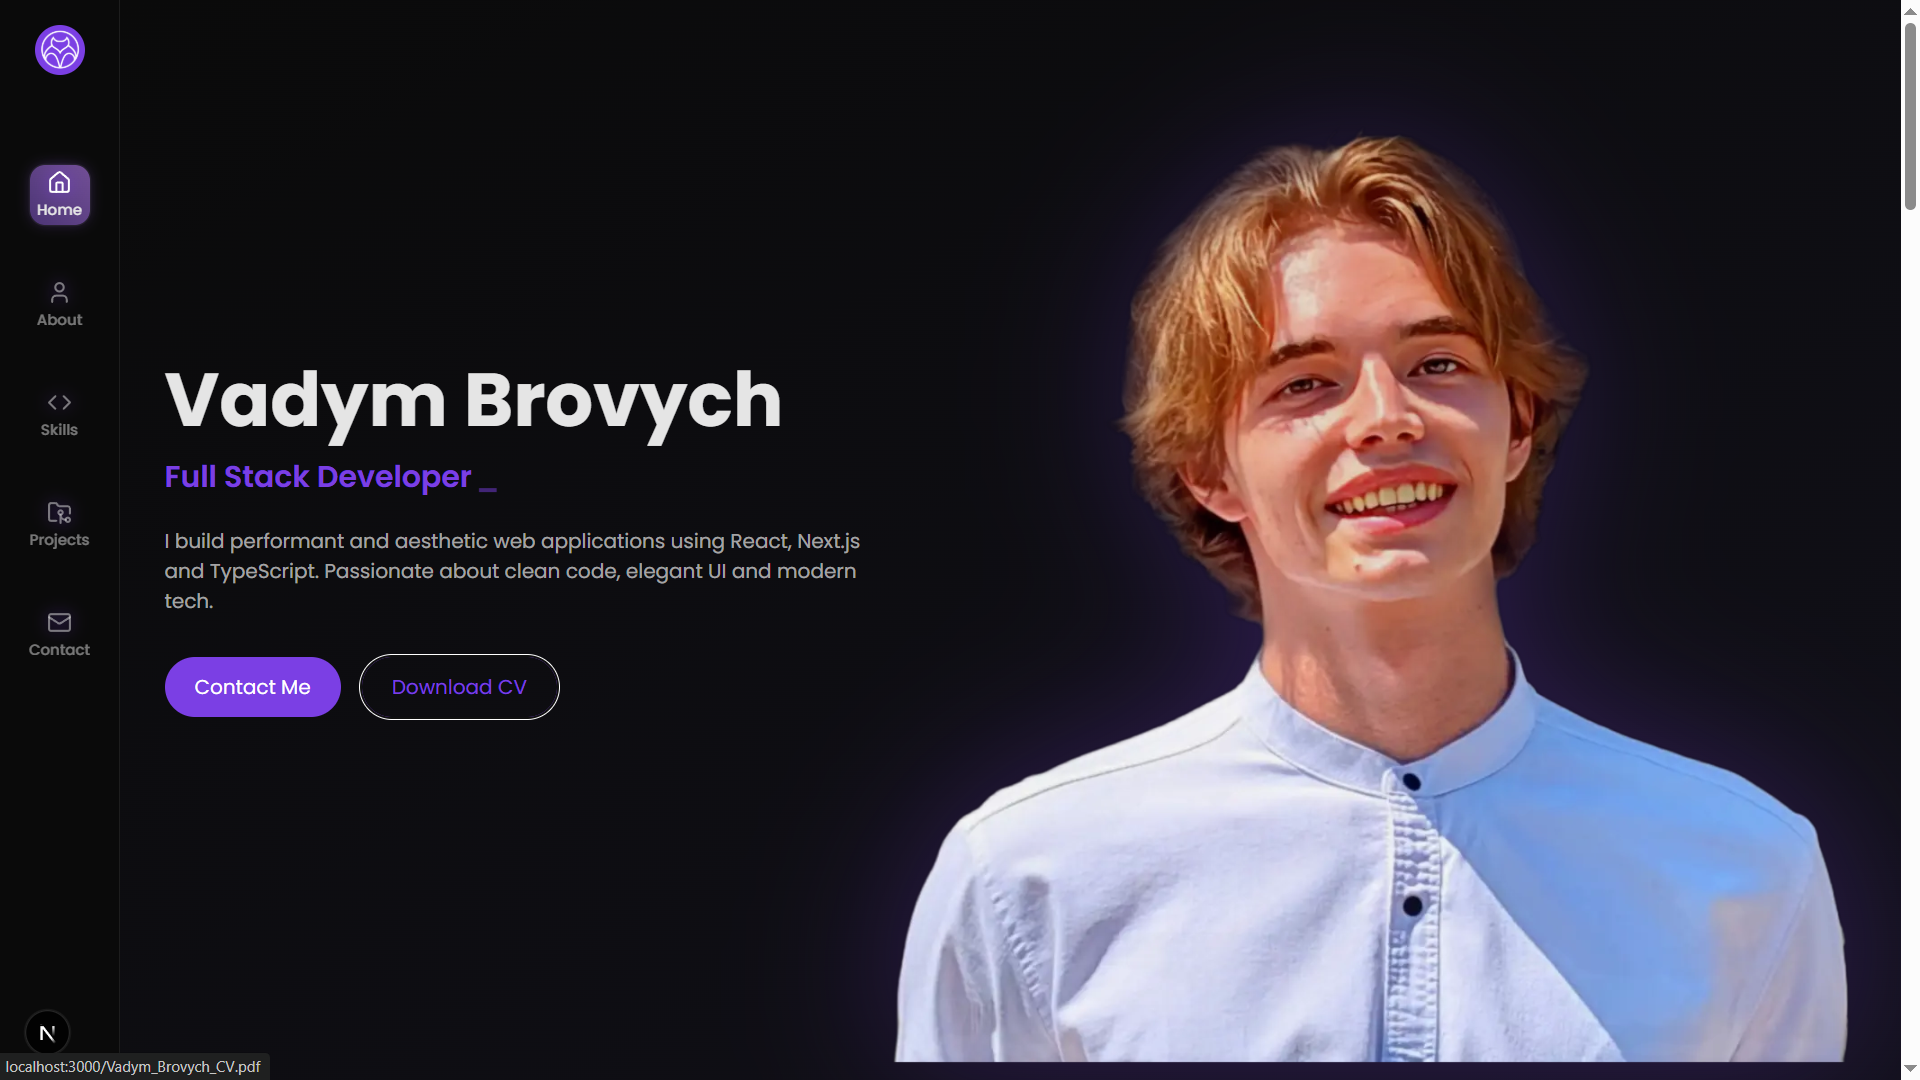
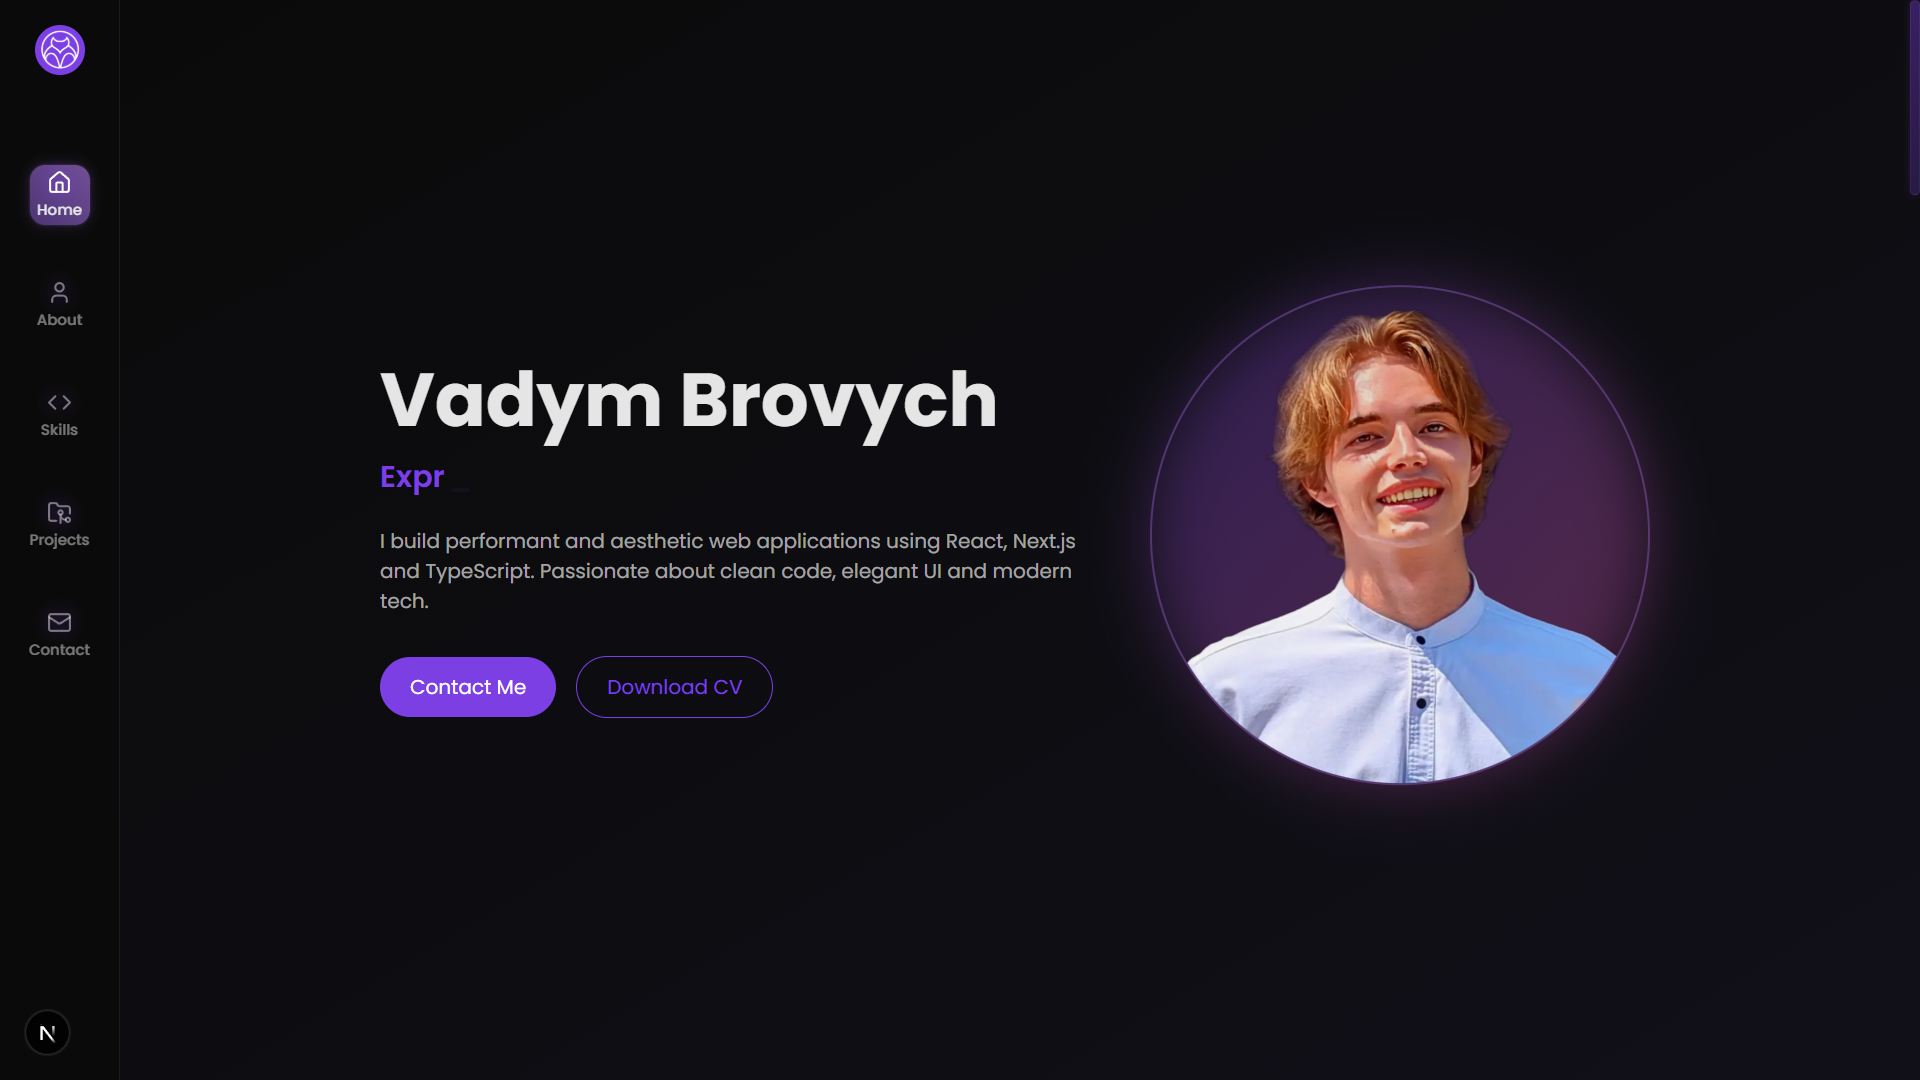
change scrollbar + screenshot

diff --git a/app/globals.css b/app/globals.css
@@ -78,3 +78,24 @@ body {
   color: var(--foreground);
   font-family: Arial, Helvetica, sans-serif;
 }
+
+/* scrollbar */
+::-webkit-scrollbar {
+  width: 8px;
+  height: 8px;
+}
+
+::-webkit-scrollbar-track {
+  background: transparent;
+}
+
+::-webkit-scrollbar-thumb {
+  background: linear-gradient(to bottom, #7b3fe463, #7b3fe43d);
+  border-radius: 9999px;
+  border: 1px solid rgba(255, 255, 255, 0.05);
+  box-shadow: 0 0 6px rgba(123, 63, 228, 0.2);
+}
+
+::-webkit-scrollbar-thumb:hover {
+  background: linear-gradient(to bottom, #a86cf4, #ff7ec7);
+}
